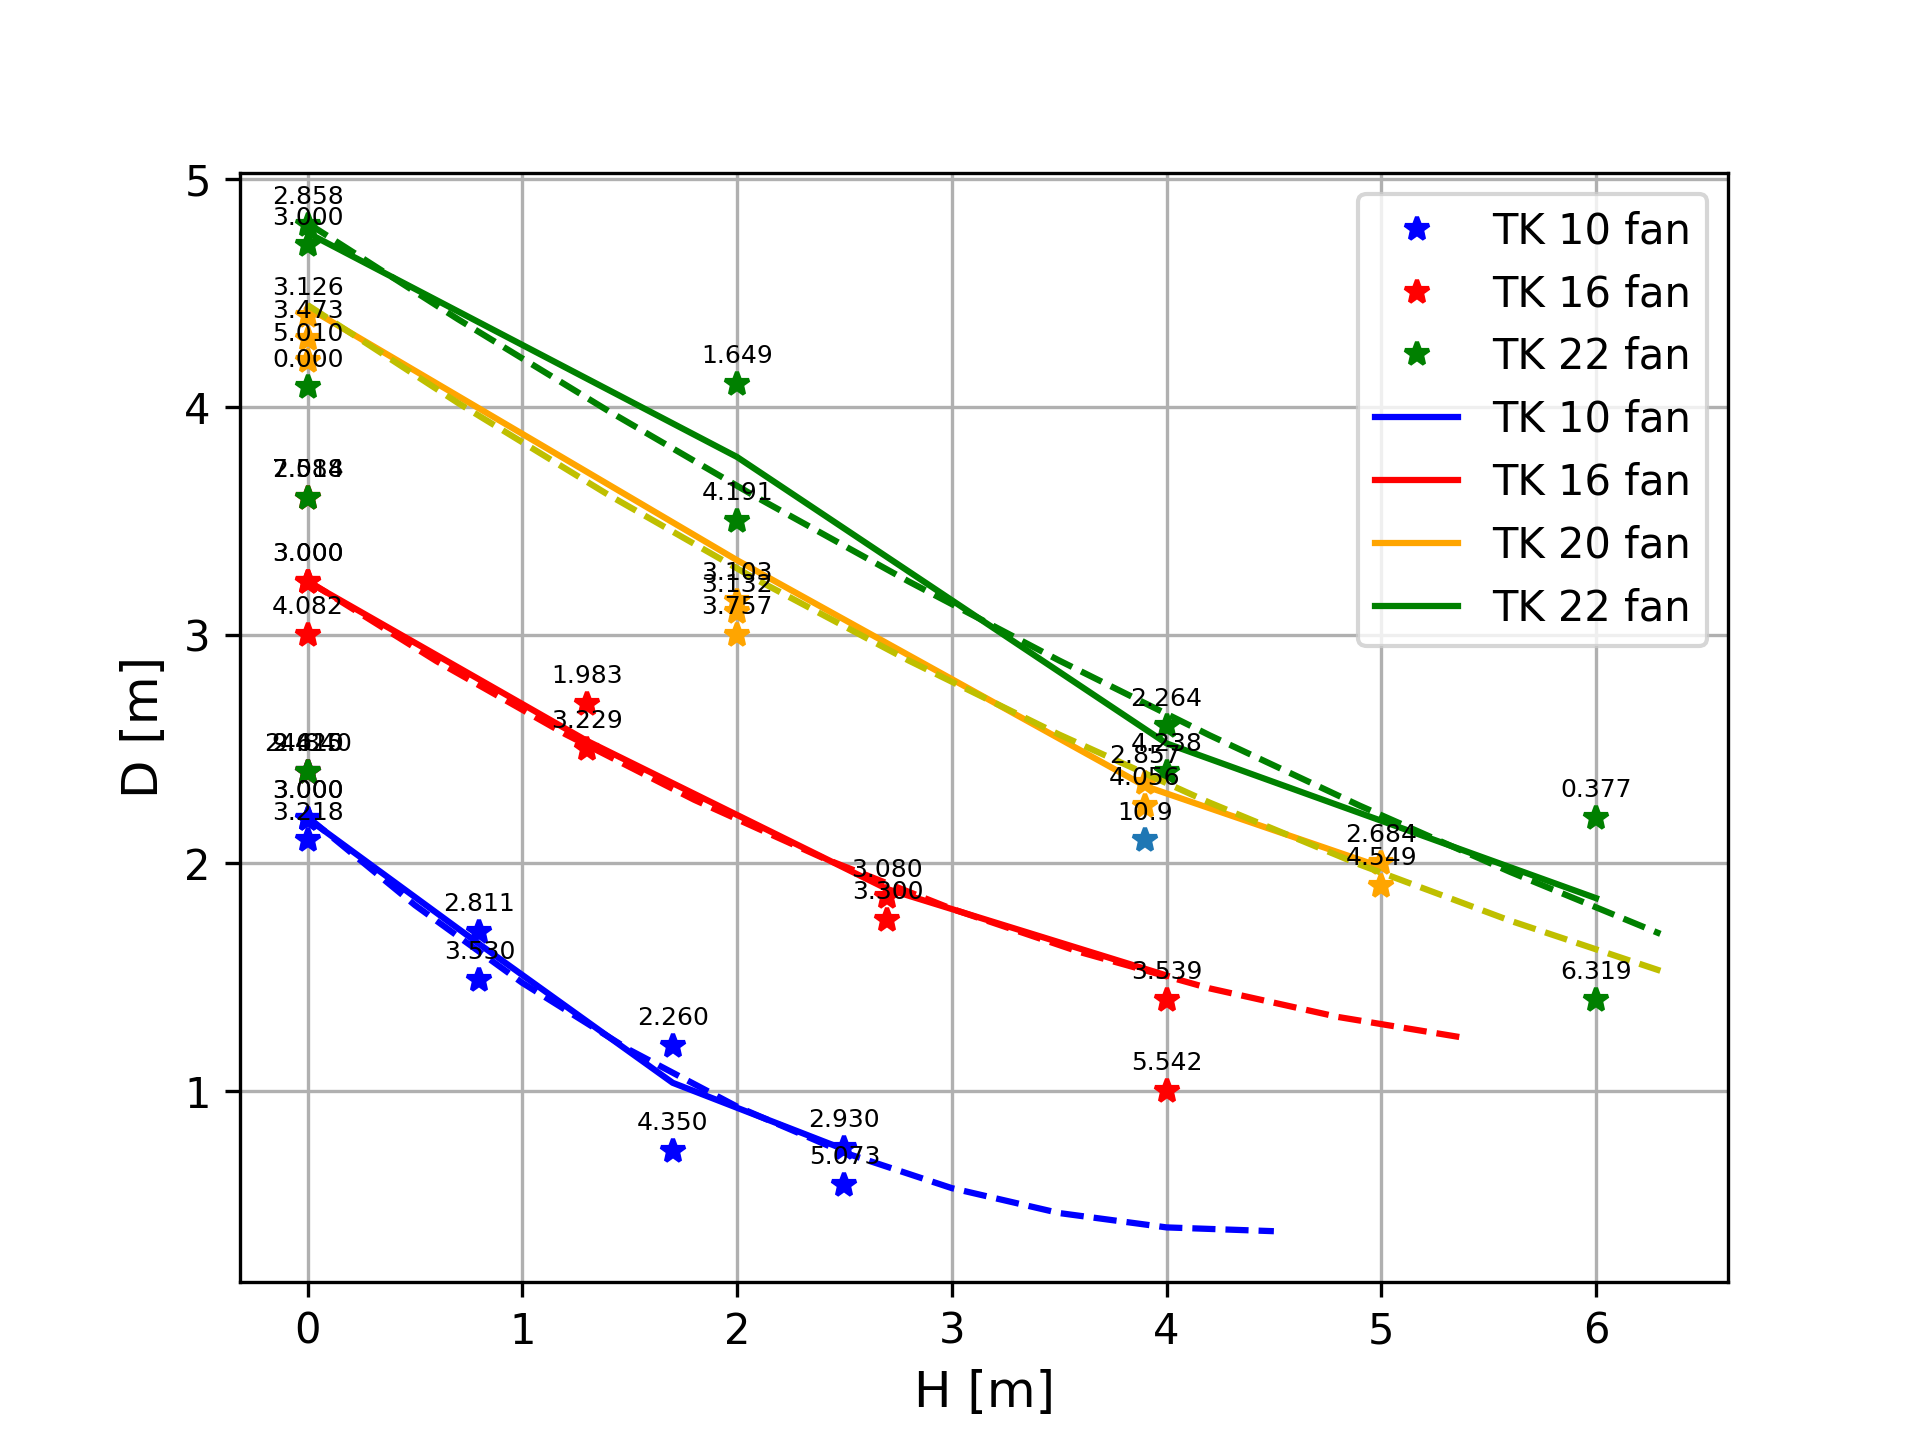
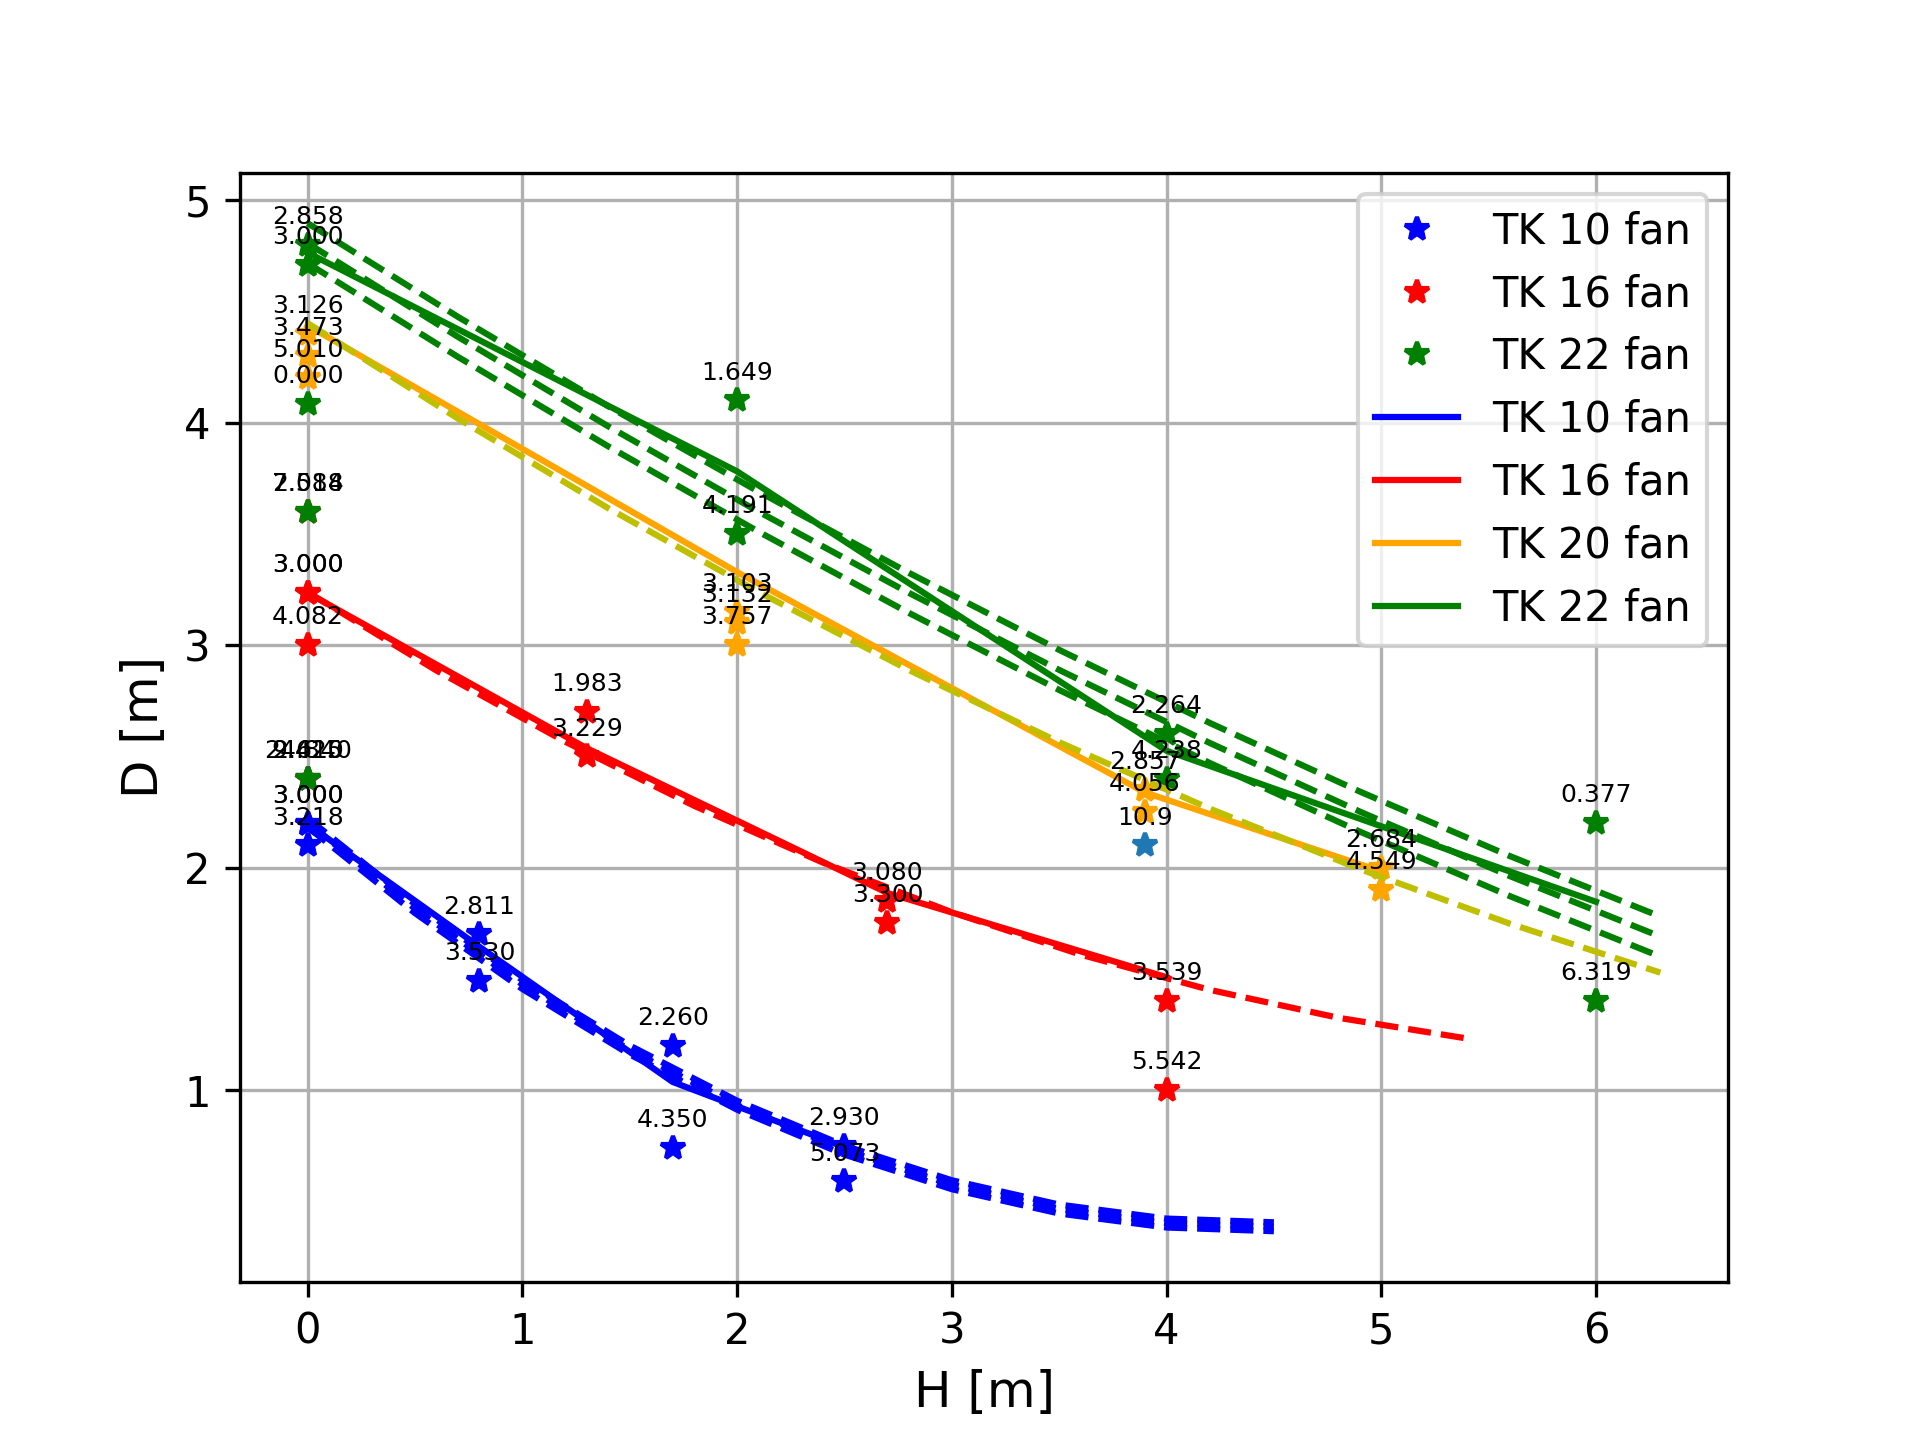
update

diff --git a/fittingCurves.py b/fittingCurves.py
@@ -93,6 +93,10 @@ ch10=func(dd, *popt1)
 ch16=func(dd, *popt2)
 ch22=func(dd, *popt3)
 
+x10=2.2
+f10=interp1d(dd, ch10, kind='linear', bounds_error=False)
+dr10my=f10(x10)
+
 plt.figure(1)
 plt.plot(dd, ch10, 'b-',label ="TK 12 fan")#, label='fit: a=%5.3f, b=%5.3f, c=%5.3f' % tuple(popt1))
 plt.plot(dd, ch16, 'r-',label ="TK 16 fan")#, label='fit: a=%5.3f, b=%5.3f, c=%5.3f' % tuple(popt2))
@@ -131,7 +135,7 @@ print(f"The root is: {root3[0]}")
 
 # add the interpolated points to the plot
 fansi=[12,14,18,20]
-which_interp="linear"
+which_interp="quad"
 if which_interp=="linear":
     ch12 = interpolate_across_N(ch10, ch16, 10, 16, 12)
     ch14 = interpolate_across_N(ch10, ch16, 10, 16, 14)
@@ -148,16 +152,18 @@ plt.plot(dd, ch14, '--',label ="TK 14 fan")
 plt.plot(dd, ch18, '--',label ="TK 18 fan")
 plt.plot(dd, ch20, '--',label ="TK 20 fan")
 
-f18=interp1 = interp1d(dd, ch18, kind='linear', bounds_error=False, fill_value='extrapolate')
+f18=interp1d(dd, ch18, kind='linear', bounds_error=False, fill_value='extrapolate')
 x18=3.5
 dr18=f18(x18)
+
+print("derating for 10 fan at 2.2m height:",dr10my)
 print("derating for 18 fan at 3.5m height:",dr18)
 #plt.legend(loc="upper right")
 plt.legend(loc="lower left")
 plt.xlim(0,5)
 plt.ylim(0,10)
 plt.show()
-plt.savefig('figure.png',format='png', dpi=300)
+plt.savefig('figuremy_quad.png',format='png', dpi=300)
 
 
 plt.figure(2)
@@ -404,6 +410,14 @@ plt.plot(dd16, func_parabolic(dd16, *popt16), 'r--')
 plt.plot(dd20, func_parabolic(dd20, *popt20), 'y--')
 plt.plot(dd22, func_parabolic(dd22, *popt22), 'g--')
 
+plt.plot(dd10, func_parabolic(dd10, *popt10)+0.02, 'b--')
+plt.plot(dd10, func_parabolic(dd10, *popt10)-0.02, 'b--')
+
+plt.plot(dd22, func_parabolic(dd22, *popt22)+0.09, 'g--')
+plt.plot(dd22, func_parabolic(dd22, *popt22)-0.09, 'g--')
+#plt.errorbar(dd10, func_parabolic(dd10, *popt10), yerr=0.02, fmt='o', capsize=2, label='Data with error')
+
+
 plt.legend(loc="upper right")
 plt.grid("on")
 plt.xlabel("H [m]",fontsize = 12)
@@ -566,3 +580,6 @@ plt.yticks(fontsize=10)
 plt.xticks(fontsize=10)
 plt.grid()
 plt.savefig('interp_Dr3.png',format='png', dpi=300)
+
+print("derating for 18 fan at 3.5m height:",dr18)
+print("derating for 10 fan at 2.2m height:",dr10my)
